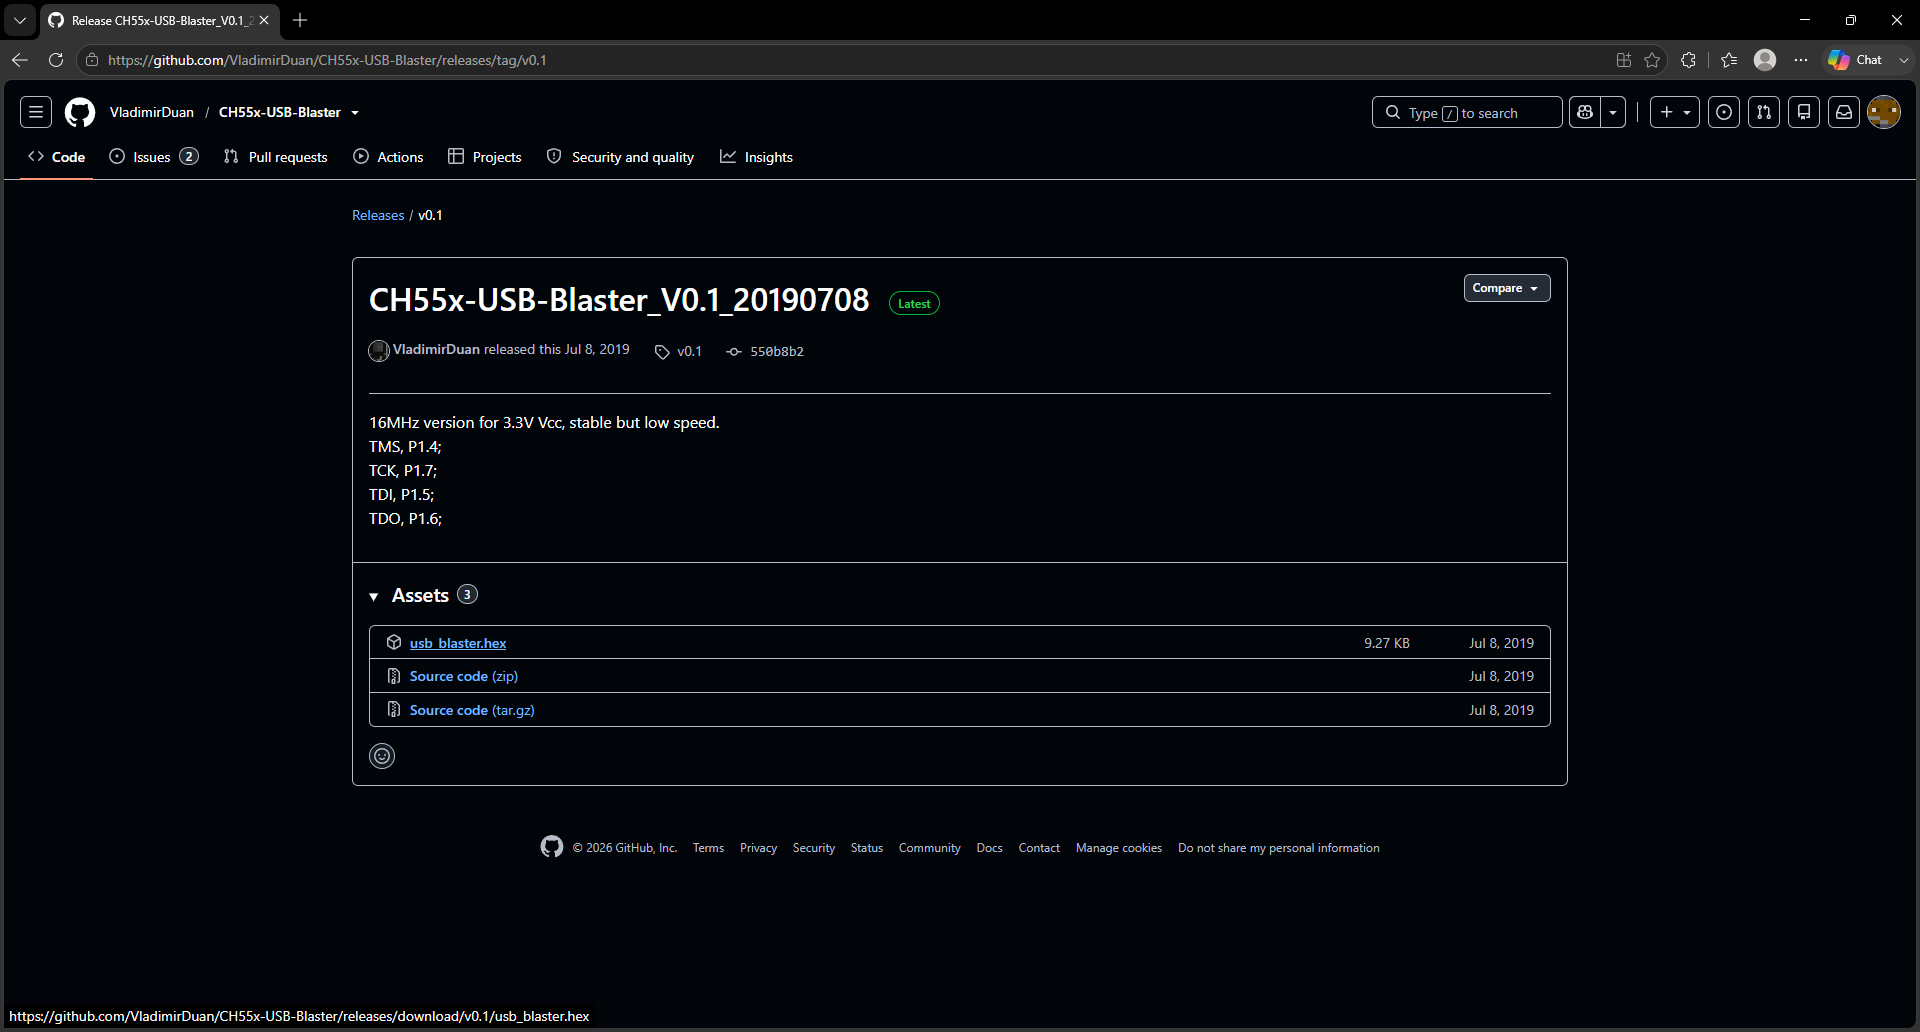
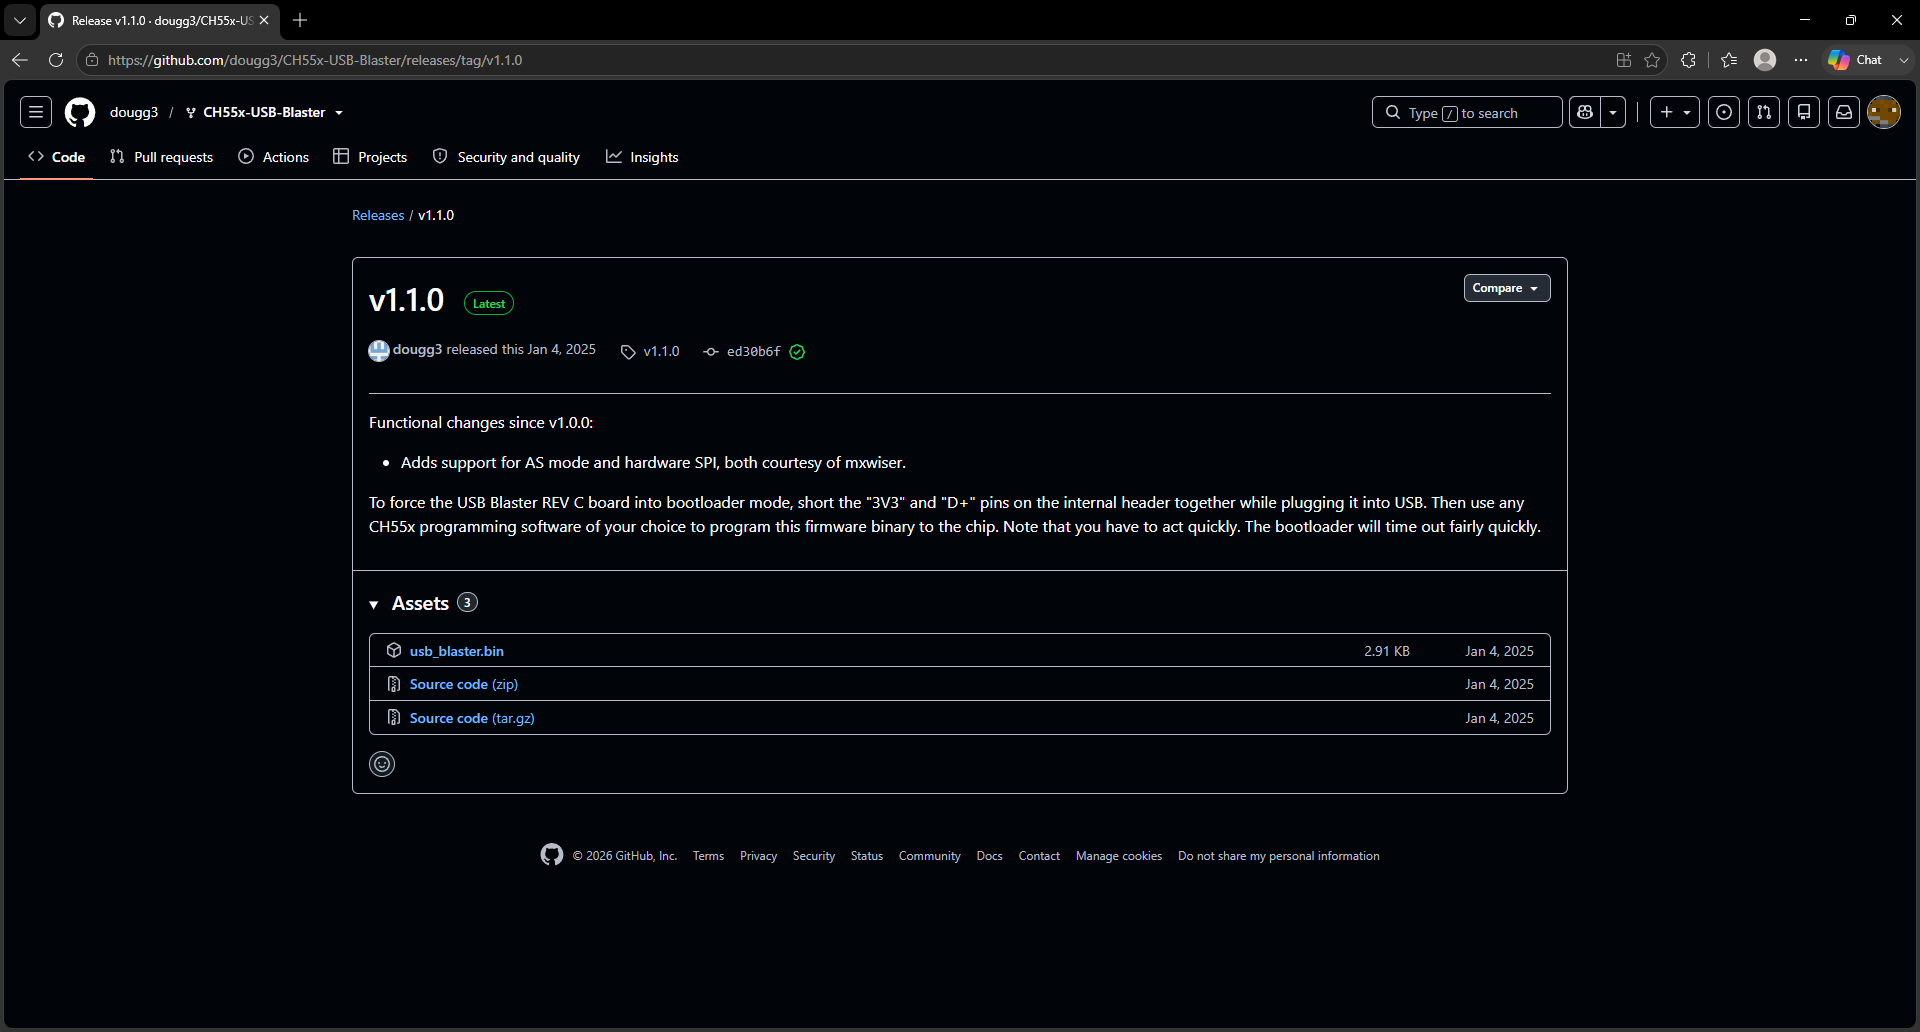
fix .hex to .bin

diff --git a/_posts/2026-08-06-Clone-USB-Blaster-Fix-Tutorial-USB-Blaster-Showing-Up-On-Device-Manager-But-Not-On-Quartus.md b/_posts/2026-08-06-Clone-USB-Blaster-Fix-Tutorial-USB-Blaster-Showing-Up-On-Device-Manager-But-Not-On-Quartus.md
@@ -11,7 +11,7 @@ I recently ran into an issue where I was trying to use the Quartus programmer on
 ![2 ]({{ 'assets/images/2026-08-06 2.png' | relative_url }})
 ![3 ]({{ 'assets/images/2026-08-06 3.png' | relative_url }})
 
-I was using a cheap clone from Aliexpress and it is known that often manufacturers replace parts with cheaper counterparts. I found that my USB-Blaster was using a cheap CH55x chip instead of a two-chip design combining an FTDI FT2232D (or FT245-family) USB-to-serial/parallel interface chip with an Altera CPLD (such as the EPM3064) to convert USB protocols into JTAG signals. **The solution to this issue is flashing the CH55x chip with the .hex file provided by VladimirDuan on github. Provided below is a step by step guide. **
+I was using a cheap clone from Aliexpress and it is known that often manufacturers replace parts with cheaper counterparts. I found that my USB-Blaster was using a cheap CH55x chip instead of a two-chip design combining an FTDI FT2232D (or FT245-family) USB-to-serial/parallel interface chip with an Altera CPLD (such as the EPM3064) to convert USB protocols into JTAG signals. **The solution to this issue is flashing the CH55x chip with the .bin file provided by dougg3 (original credit to VladimirDuan) on github. Provided below is a step by step guide. **
 
 # Checks
 Before beginning the instructions below make sure that you have first checked all of the following:
@@ -24,8 +24,8 @@ Before beginning the instructions below make sure that you have first checked al
 Download the "WCHISPTool_Setup" .exe file from [https://www.wch-ic.com/downloads/WCHISPTool_Setup_exe.html ](https://www.wch-ic.com/downloads/WCHISPTool_Setup_exe.html) and run the installer. Follow the installation wizard. 
 ![3 ]({{ 'assets/images/2026-08-06 9.png' | relative_url }})
 
-### 2. Download .hex file
-Download the needed .hex file from [https://github.com/VladimirDuan/CH55x-USB-Blaster/releases/tag/v0.1](https://github.com/VladimirDuan/CH55x-USB-Blaster/releases/tag/v0.1). Navigate to the linked page and click on USB_blaster.hex under the assets dropdown. This should begin the installation.   
+### 2. Download .bin file
+Download the needed .bin file from [https://github.com/dougg3/CH55x-USB-Blaster/releases/tag/v1.1.0](https://github.com/dougg3/CH55x-USB-Blaster/releases/tag/v1.1.0). Navigate to the linked page and click on usb_blaster.bin under the assets dropdown. This should begin the installation.   
 ![8 ]({{ 'assets/images/2026-08-06 10.png' | relative_url }})
 
 ### 3. Set CH55x chip into flash mode using 10k resistor
@@ -36,8 +36,8 @@ To set the chip to flash mode open up your USB-blaster and use a 10k resistor to
 After the chip programming software is installed and running plug in the USB-blaster with the resistor connected into your computer. The software should automatically detect the device and setup the chip options. 
 ![12 ]({{ 'assets/images/2026-08-06 12.png' | relative_url }})
 
-### 5. Open .hex file on chip programmer
-Click on the three dots beside "Object File1" in the "Download File" section, this should open a file browser window. Navigate to your .hex file in the file browser and click open. Ensure that the check box beside the three dots is checked.
+### 5. Open .bin file on chip programmer
+Click on the three dots beside "Object File1" in the "Download File" section, this should open a file browser window. Navigate to your .bin file in the file browser and click open. Ensure that the check box beside the three dots is checked.
 ![13 ]({{ 'assets/images/2026-08-06 13.png' | relative_url }})
 
 ### 6. Flash the chip
